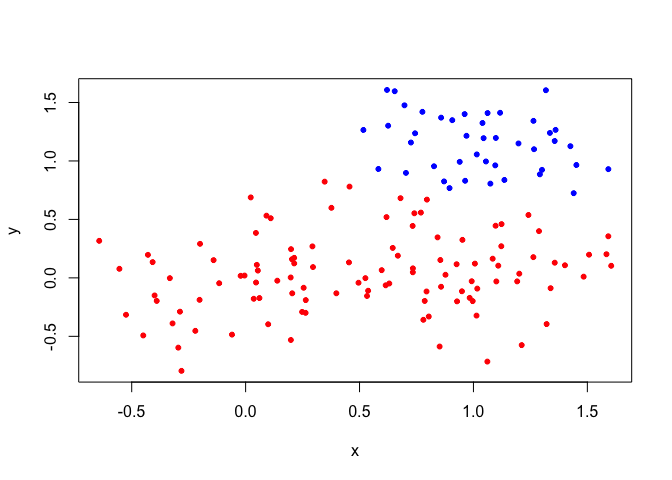
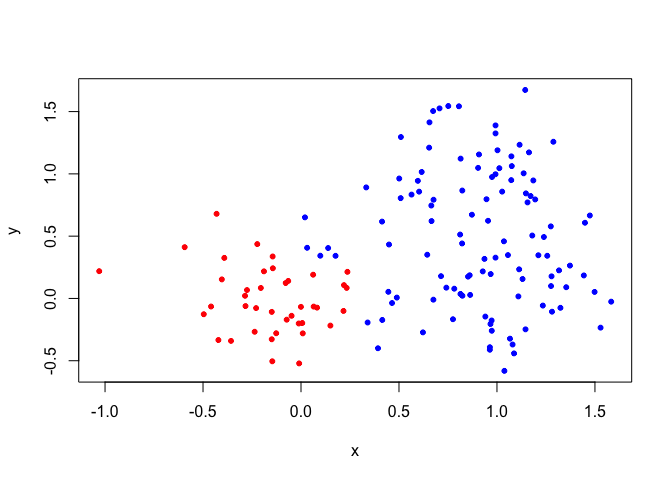
class8

diff --git a/class08/class08.md b/class08/class08.md
@@ -42,16 +42,16 @@ print(k)
     ## 
     ## Cluster means:
     ##           x         y
-    ## 1 -3.054411  2.765770
-    ## 2  2.765770 -3.054411
+    ## 1  3.124985 -2.990950
+    ## 2 -2.990950  3.124985
     ## 
     ## Clustering vector:
-    ##  [1] 1 1 1 1 1 1 1 1 1 1 1 1 1 1 1 1 1 1 1 1 1 1 1 1 1 1 1 1 1 1 2 2 2 2 2
-    ## [36] 2 2 2 2 2 2 2 2 2 2 2 2 2 2 2 2 2 2 2 2 2 2 2 2 2
+    ##  [1] 2 2 2 2 2 2 2 2 2 2 2 2 2 2 2 2 2 2 2 2 2 2 2 2 2 2 2 2 2 2 1 1 1 1 1
+    ## [36] 1 1 1 1 1 1 1 1 1 1 1 1 1 1 1 1 1 1 1 1 1 1 1 1 1
     ## 
     ## Within cluster sum of squares by cluster:
-    ## [1] 58.82577 58.82577
-    ##  (between_SS / total_SS =  89.6 %)
+    ## [1] 48.93355 48.93355
+    ##  (between_SS / total_SS =  92.0 %)
     ## 
     ## Available components:
     ## 
@@ -86,8 +86,8 @@ k$centers
 ```
 
     ##           x         y
-    ## 1 -3.054411  2.765770
-    ## 2  2.765770 -3.054411
+    ## 1  3.124985 -2.990950
+    ## 2 -2.990950  3.124985
 
     - Within cluster sum of squares by cluster: square distance to the center
 
@@ -110,25 +110,25 @@ k10 <- kmeans(x, centers = 10, nstart = 20)
 k10$tot.withinss
 ```
 
-    ## [1] 22.84634
+    ## [1] 21.27397
 
 ``` r
 k4$tot.withinss
 ```
 
-    ## [1] 63.39695
+    ## [1] 62.23547
 
 ``` r
 k3$tot.withinss
 ```
 
-    ## [1] 90.52425
+    ## [1] 80.05128
 
 ``` r
 k$tot.withinss
 ```
 
-    ## [1] 117.6515
+    ## [1] 97.8671
 
 ``` r
 plot(c(k$tot.withinss, k3$tot.withinss, k4$tot.withinss, k10$tot.withinss))
@@ -236,9 +236,9 @@ table(cluster3, col)
 
     ##         col
     ## cluster3 c1 c2 c3
-    ##        1 41  0  0
-    ##        2  9  8 50
-    ##        3  0 42  0
+    ##        1 40  0  0
+    ##        2  6 48  4
+    ##        3  4  2 46
 
 Using principal component analysis (PCA) in R
 =============================================
@@ -262,13 +262,13 @@ mydata[i,] <- c(wt.values, ko.values)
 head(mydata)
 ```
 
-    ##       wt1 wt2 wt3 wt4 wt5 ko1 ko2 ko3 ko4 ko5
-    ## gene1 249 233 258 251 221 747 733 717 756 774
-    ## gene2 767 669 756 752 757 609 584 609 564 592
-    ## gene3 759 684 709 767 784 279 285 300 284 308
-    ## gene4 668 684 628 650 655 130 140 128 129 124
-    ## gene5 875 822 810 843 850 773 747 744 697 732
-    ## gene6 365 336 355 340 343 416 373 338 383 402
+    ##       wt1 wt2 wt3 wt4 wt5  ko1 ko2 ko3  ko4  ko5
+    ## gene1 181 155 177 170 218  656 676 650  651  708
+    ## gene2 660 637 655 705 666 1006 984 973 1021 1029
+    ## gene3 651 725 642 656 661  220 209 239  245  218
+    ## gene4 714 620 659 644 683  742 731 727  777  763
+    ## gene5 730 724 762 745 725   60  54  57   65   63
+    ## gene6 742 742 737 742 723  559 568 566  549  587
 
 Note the prcomp() function wants us to take the transposed data of our matrix with column and rows flipped
 
@@ -277,75 +277,75 @@ head(t(mydata))
 ```
 
     ##     gene1 gene2 gene3 gene4 gene5 gene6 gene7 gene8 gene9 gene10 gene11
-    ## wt1   249   767   759   668   875   365   274   499   129    105    912
-    ## wt2   233   669   684   684   822   336   291   514   145    108    960
-    ## wt3   258   756   709   628   810   355   282   541   120    116    943
-    ## wt4   251   752   767   650   843   340   256   540   124    113    944
-    ## wt5   221   757   784   655   850   343   287   535   126    123   1007
-    ## ko1   747   609   279   130   773   416   871   658   853    580    524
+    ## wt1   181   660   651   714   730   742   337   200   912    225    140
+    ## wt2   155   637   725   620   724   742   334   214   850    224    146
+    ## wt3   177   655   642   659   762   737   340   200   893    220    155
+    ## wt4   170   705   656   644   745   742   317   185   853    243    147
+    ## wt5   218   666   661   683   725   723   318   230   809    204    129
+    ## ko1   656  1006   220   742    60   559   571   306   665    945    646
     ##     gene12 gene13 gene14 gene15 gene16 gene17 gene18 gene19 gene20 gene21
-    ## wt1    885    556    592    720     43    124    257    735    821    478
-    ## wt2    845    574    576    658     47    132    293    731    861    467
-    ## wt3    942    580    558    713     46    131    285    761    893    444
-    ## wt4    927    570    551    736     42    121    282    727    853    449
-    ## wt5    915    579    586    673     47    119    254    723    860    443
-    ## ko1    720    942    526    366    149    944    234    162    709    234
+    ## wt1    739    212    964    577    895    135    806    442    156    557
+    ## wt2    642    201   1007    594    891    146    792    432    143    533
+    ## wt3    717    224   1016    543    927    165    777    399    166    553
+    ## wt4    667    218    987    572    904    165    813    416    155    541
+    ## wt5    669    216    968    557    927    147    774    441    172    590
+    ## ko1    203    172    621    112    536    359    234    404    863    543
     ##     gene22 gene23 gene24 gene25 gene26 gene27 gene28 gene29 gene30 gene31
-    ## wt1    675    550    954     37    359    330    323    135    654    820
-    ## wt2    696    507    897     39    393    304    322    131    661    774
-    ## wt3    734    525    881     30    391    319    316    111    689    826
-    ## wt4    737    519    921     25    406    302    325    141    701    803
-    ## wt5    731    522    923     50    377    311    349    141    631    860
-    ## ko1    902    687    310    894    689    842    100    740    871    451
+    ## wt1    327    272    834    715     43     66    389    593    827    611
+    ## wt2    324    244    817    651     62     92    420    596    812    601
+    ## wt3    311    261    779    657     48     71    411    544    788    650
+    ## wt4    332    272    793    673     50     83    420    574    788    593
+    ## wt5    309    260    823    708     52     74    439    580    827    666
+    ## ko1    409    864    708    391    728    518    334    438     82    780
     ##     gene32 gene33 gene34 gene35 gene36 gene37 gene38 gene39 gene40 gene41
-    ## wt1    958    227    912    243    201    609     79    806    700    559
-    ## wt2    951    227    875    229    173    627     78    800    720    629
-    ## wt3    927    242    931    236    176    598     64    814    704    597
-    ## wt4    949    243    861    237    176    661     71    749    683    659
-    ## wt5    999    236    890    234    188    654     76    818    713    594
-    ## ko1    771    607    626    461    940    435    545    877    221    580
+    ## wt1    303    360   1005    951    807    883    677    965    344    698
+    ## wt2    337    346    986    948    802    890    638   1002    331    643
+    ## wt3    310    370   1005    968    810    919    672    971    350    676
+    ## wt4    334    336   1039    962    760    885    652    935    338    654
+    ## wt5    363    351    997    973    828    948    644    928    327    688
+    ## ko1     61    672    236    882    590    491    930    841     83    732
     ##     gene42 gene43 gene44 gene45 gene46 gene47 gene48 gene49 gene50 gene51
-    ## wt1    537    722    238     21    820    534    713    185     82    478
-    ## wt2    530    732    256     24    855    587    696    190     79    481
-    ## wt3    502    759    241     24    927    594    741    171     71    464
-    ## wt4    518    734    263     26    896    612    697    203     79    464
-    ## wt5    530    760    248     28    897    564    708    197     81    473
-    ## ko1    730    165    645    380    139    317    783    207    845     88
+    ## wt1    237    611    633    334    762    953    973    471    210    624
+    ## wt2    243    570    601    363    803    961    935    437    208    621
+    ## wt3    254    616    632    334    833    899    949    419    200    569
+    ## wt4    272    607    613    330    808    850    960    483    201    603
+    ## wt5    241    584    614    321    748    834    978    472    184    585
+    ## ko1    479    889    559    341    129    486    336    769    608    488
     ##     gene52 gene53 gene54 gene55 gene56 gene57 gene58 gene59 gene60 gene61
-    ## wt1    284    691    767     14     75    722    475    275    570    850
-    ## wt2    299    693    748      7     80    681    516    280    626    895
-    ## wt3    268    679    741      6     88    670    460    258    569    872
-    ## wt4    282    666    718     12     60    665    496    294    598    919
-    ## wt5    309    670    701     15     81    712    487    289    594    871
-    ## ko1     93    733    597    864    456    335    884     88    158    900
+    ## wt1    997    854    462    813    697    172    330    617    907    286
+    ## wt2    908    851    449    786    750    158    315    692    861    243
+    ## wt3    892    849    489    799    696    184    332    689    791    274
+    ## wt4    968    879    454    802    733    186    306    673    870    245
+    ## wt5    878    867    491    841    670    176    337    638    893    286
+    ## ko1    579    563    243    240    969    193    308    534    501     91
     ##     gene62 gene63 gene64 gene65 gene66 gene67 gene68 gene69 gene70 gene71
-    ## wt1    207    222    532     30    967    681    960     89    591    630
-    ## wt2    225    205    500     18    943    680    981    126    603    640
-    ## wt3    218    208    517     32    994    682    958    104    640    640
-    ## wt4    220    193    535     20    965    652    935    109    626    648
-    ## wt5    229    206    532     29    987    682   1000    113    595    627
-    ## ko1     46    589    222    311    716    338    814    579    729    114
+    ## wt1    653    718    691    657    226    737    451    433    161    469
+    ## wt2    662    740    669    705    235    695    451    515    126    464
+    ## wt3    650    844    659    685    260    674    465    511    137    455
+    ## wt4    656    787    714    680    248    649    427    460    138    422
+    ## wt5    649    727    712    686    228    709    381    433    139    425
+    ## ko1    489     14     83    695    956    792    165    121    526    181
     ##     gene72 gene73 gene74 gene75 gene76 gene77 gene78 gene79 gene80 gene81
-    ## wt1    244    601    469    236    738    507    180    452    437    216
-    ## wt2    237    606    468    243    701    505    202    460    438    193
-    ## wt3    221    641    502    261    728    543    209    469    461    207
-    ## wt4    222    600    505    241    748    501    200    488    424    179
-    ## wt5    230    611    516    234    727    512    180    452    456    197
-    ## ko1    684    187    767    712    281     15    776    309     97    131
+    ## wt1    598    577    254    159    609    200    439    436    424    472
+    ## wt2    600    623    229    144    726    219    442    431    450    449
+    ## wt3    572    622    216    130    668    187    460    412    433    429
+    ## wt4    607    688    217    137    708    212    468    420    474    444
+    ## wt5    585    623    207    135    669    217    431    457    456    427
+    ## ko1    820    691    976    833    342    710    256    378    847     79
     ##     gene82 gene83 gene84 gene85 gene86 gene87 gene88 gene89 gene90 gene91
-    ## wt1    317    746    622    746    904    863    878    962    933   1038
-    ## wt2    326    686    637    735    891    872    869    938    920   1058
-    ## wt3    337    688    670    769    827    854    877    962    942    999
-    ## wt4    354    650    646    740    831    868    887    920    908   1001
-    ## wt5    331    680    614    730    869    846    951    949    907    964
-    ## ko1    555    930    659    710    993    852    657    633    744    453
+    ## wt1    408     46    579    371    777    248    843    679    572    804
+    ## wt2    400     38    600    361    792    249    826    700    585    777
+    ## wt3    425     36    572    379    790    239    780    694    593    807
+    ## wt4    404     45    611    400    838    238    837    687    547    810
+    ## wt5    420     47    594    372    807    248    806    667    545    829
+    ## ko1    731    355    193    102    353    171    445    336    646    493
     ##     gene92 gene93 gene94 gene95 gene96 gene97 gene98 gene99 gene100
-    ## wt1    260    278    195    987    600    633    947    640     535
-    ## wt2    280    292    176   1014    579    692    881    635     569
-    ## wt3    259    283    216    945    576    613    936    626     575
-    ## wt4    271    283    166   1010    577    652    861    685     518
-    ## wt5    268    302    187    959    601    705    892    612     543
-    ## ko1    817    755    838    294    541    858    147    371     249
+    ## wt1    500    833    423    396    620    692    718    729     550
+    ## wt2    502    834    415    377    628    680    705    713     548
+    ## wt3    455    848    371    412    633    651    710    716     529
+    ## wt4    464    853    404    364    591    642    650    708     523
+    ## wt5    490    855    410    397    631    633    695    701     529
+    ## ko1    809     84    477    131    233    569    408     82     423
 
 Now let's try find structure in this data with **prcomp()**
 
@@ -377,8 +377,8 @@ pca.var <- pca$sdev^2
 pca.var
 ```
 
-    ##  [1] 9.084016e+01 2.562270e+00 2.230566e+00 1.259004e+00 1.046594e+00
-    ##  [6] 1.015564e+00 3.725716e-01 3.589090e-01 3.143649e-01 1.458596e-29
+    ##  [1] 9.019482e+01 2.304601e+00 2.029525e+00 1.489292e+00 1.195600e+00
+    ##  [6] 9.497404e-01 8.713764e-01 6.223631e-01 3.426834e-01 7.323252e-30
 
 ``` r
 #getting the percentage variance 
@@ -386,7 +386,7 @@ pca.var.per <- round(pca.var/sum(pca.var)*100,1)
 pca.var.per
 ```
 
-    ##  [1] 90.8  2.6  2.2  1.3  1.0  1.0  0.4  0.4  0.3  0.0
+    ##  [1] 90.2  2.3  2.0  1.5  1.2  0.9  0.9  0.6  0.3  0.0
 
 Making the basic PCA plot more useful
 
@@ -419,8 +419,8 @@ loading_scores <- pca$rotation[,1]
 summary(loading_scores)
 ```
 
-    ##      Min.   1st Qu.    Median      Mean   3rd Qu.      Max. 
-    ## -0.104838 -0.104183 -0.016804 -0.002521  0.104260  0.104882
+    ##     Min.  1st Qu.   Median     Mean  3rd Qu.     Max. 
+    ## -0.10527 -0.10453 -0.09779 -0.02257  0.10282  0.10514
 
 ``` r
 # We are interested in the magnitudes of both plus and minus contributing genes
@@ -433,8 +433,8 @@ top_5_genes <- names(gene_score_ranked[1:5])
 pca$rotation[top_5_genes,1]
 ```
 
-    ##     gene55     gene94     gene71      gene9     gene25 
-    ##  0.1048819  0.1048395 -0.1048378  0.1048374  0.1048373
+    ##     gene99     gene93     gene30      gene5     gene34 
+    ## -0.1052712 -0.1052250 -0.1052243 -0.1051922 -0.1051883
 
 Try using what learned today to analyze UK food data
 ====================================================
